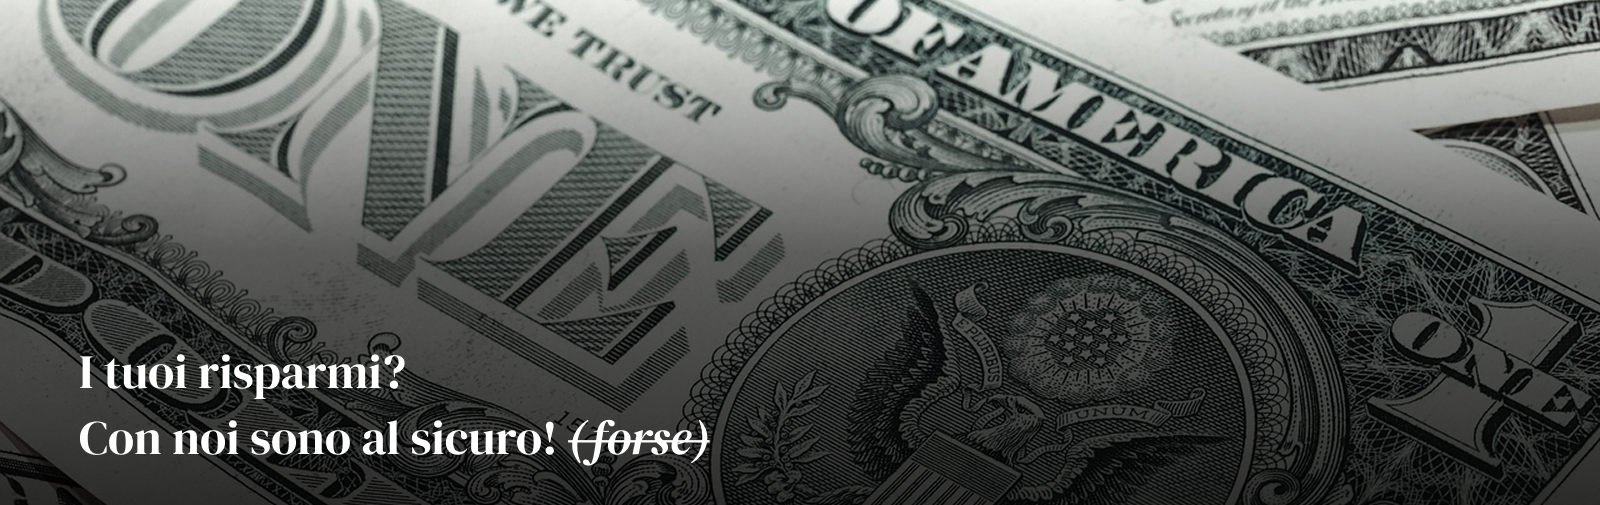
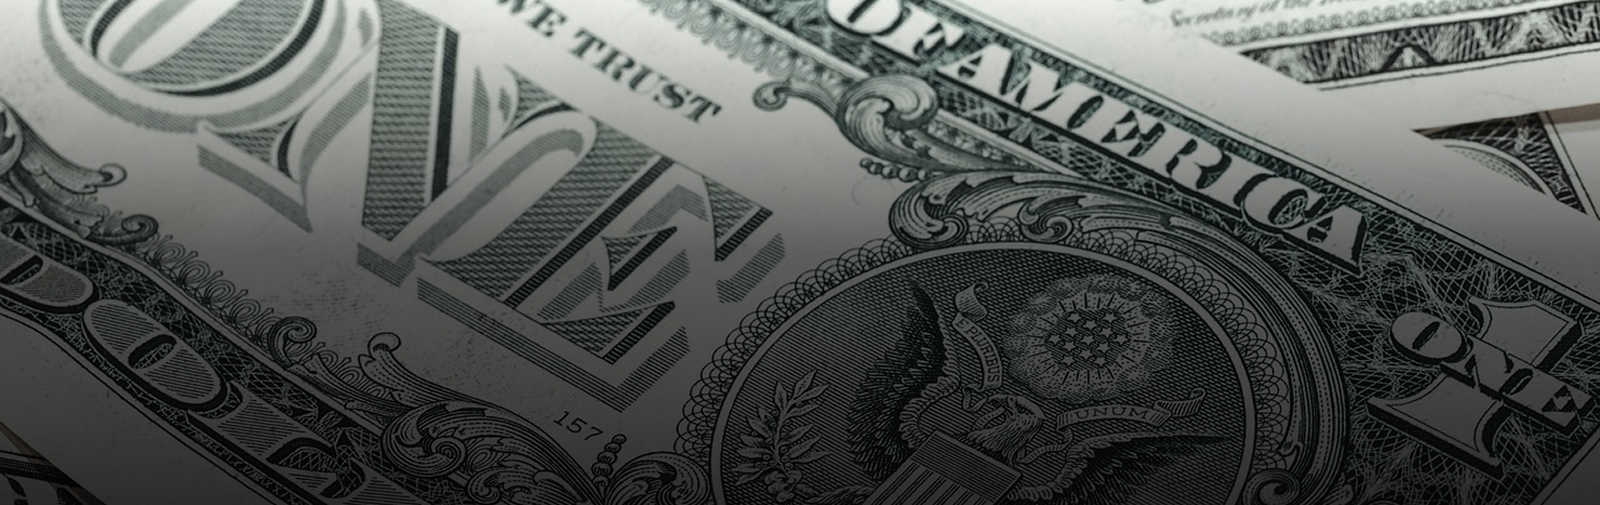
fix: implement Frame 1 with hero + text/image (closes #33)

Changed region(s): [[0.0312, 0.8317, 0.4688, 0.9208], [0.0312, 0.6832, 0.25, 0.802]]

diff --git a/src/pages/Home.tsx b/src/pages/Home.tsx
@@ -1,10 +1,10 @@
+import { useEffect, useRef, type ReactNode } from "react";
 import useSessionStorage from "../hooks/useSessionStorage";
 import Message from "../components/Message";
 import { formatTimestap } from "../utils/utils";
 import { Sender } from "../../types/type";
 import Input from "../components/Input";
 import Navbar from "../components/Navbar";
-import { useEffect, useRef, type ReactNode } from "react";
 
 export default function Home() {
   const { sessionData, isLoading, updateSession } = useSessionStorage();
@@ -33,11 +33,11 @@ export default function Home() {
 
   const history = sessionData.history || [];
 
-  let content: ReactNode;
+  let chatContent: ReactNode;
   if (isLoading) {
-    content = <div className="text-center">Caricamento in corso..</div>;
+    chatContent = <div className="text-center">Caricamento in corso..</div>;
   } else if (history.length > 0) {
-    content = (
+    chatContent = (
       <div className="space-y-1">
         {history.map((message) => (
           <Message
@@ -50,7 +50,7 @@ export default function Home() {
       </div>
     );
   } else {
-    content = <p className="text-gray-500">Nessun messaggio</p>;
+    chatContent = <p className="text-gray-500">Nessun messaggio</p>;
   }
 
   return (
@@ -58,15 +58,81 @@ export default function Home() {
       {/* Navbar */}
       <Navbar />
 
+      {/* Banner principale */}
+      <section
+        className="relative h-64 flex items-center justify-center bg-cover bg-center bg-no-repeat bg-[url('/images/money-background.png')]"
+      >
+        {/* Overlay */}
+        <div className="absolute inset-0 bg-black/20"></div>
+
+        <div className="relative z-10 text-center px-4">
+          <h1 className="text-3xl md:text-4xl lg:text-5xl font-bold text-white leading-tight mb-2 drop-shadow-lg">
+            I tuoi risparmi?
+          </h1>
+          <h2 className="text-3xl md:text-4xl lg:text-5xl font-bold text-white leading-tight mb-2 drop-shadow-lg">
+            Con noi sono al sicuro! <span className="text-white-300 line-through">(forse)</span>
+          </h2>
+        </div>
+      </section>
+
+      {/* Sezione testo + immagine sulla sinistra */}
+      <section className="py-12 bg-white">
+        <div className="max-w-6xl mx-auto px-4 sm:px-6 lg:px-8">
+          <div className="grid grid-cols-1 lg:grid-cols-5 gap-8 items-start">
+            {/* Titolo e descrizione */}
+            <div className="lg:col-span-3 space-y-4">
+              <h2 className="text-2xl md:text-3xl font-bold text-primary-600 mb-4">
+                L'unica banca che non ti frega
+              </h2>
+
+              <div className="space-y-3 text-sm md:text-base text-black leading-relaxed">
+                <p>
+                  Da oltre 3 anni nel settore bancario, siamo l'istituto di
+                  credito che mette sempre al primo posto la trasparenza{" "}
+                  <em>(subito dopo i nostri, ovviamente)</em>.
+                </p>
+
+                <p>
+                  Con le nostre innovative polizze assicurative sui depositi
+                  che coprono fino al 73% del capitale sociale <em>(in caso di
+                    condizioni meteorologiche favorevoli)</em> e tassi di interesse
+                  competitivi dello 0,001% annuo <em>(soggetti a variazioni
+                    orarie)</em>, garantiamo la massima trasparenza nelle nostre
+                  operazioni.
+                </p>
+
+                <p>
+                  I nostri consulenti esperti, freschi di diploma triennale in
+                  "Finanza Creativa", sono sempre pronti ad ascoltarti negli
+                  orari più comodi: dalle 14:23 alle 14:31 del secondo
+                  martedì di ogni mese.
+                </p>
+              </div>
+            </div>
+
+            {/* Colonna immagine sulla destra */}
+            <div className="lg:col-span-2 flex justify-center">
+              <div className="max-w-sm">
+                <img
+                  src="/images/cartoon-characters.png"
+                  alt="Personaggi cartoon che rappresentano la nostra banca"
+                  className="w-full h-auto"
+                />
+              </div>
+            </div>
+          </div>
+        </div>
+      </section>
+
       {/* Chat container */}
-      <div className="max-w-4xl mx-auto p-4 pt-6">
-        <section className="flex flex-col border p-2 rounded-md border-gray-300">
+      <section className="max-w-4xl mx-auto p-4 pt-6">
+        <div className="flex flex-col border p-2 rounded-md border-gray-300">
           <div ref={chatContainerRef} className="flex-1 overflow-y-auto p-4 max-h-[530px]">
-            {content}
+            {chatContent}
           </div>
           <Input onSubmit={handleRequest} />
-        </section>
-      </div>
+        </div>
+      </section>
     </div>
   );
 }

diff --git a/src/App.tsx b/src/App.tsx
@@ -6,7 +6,7 @@ export default function App() {
   const navigation: NavigationType[] = [
     {
       path: "/",
-      element: <Home />, // Landing page come homepage
+      element: <Home />,
     },
     // aggiungi qui altre pagine, se serviranno
   ];
